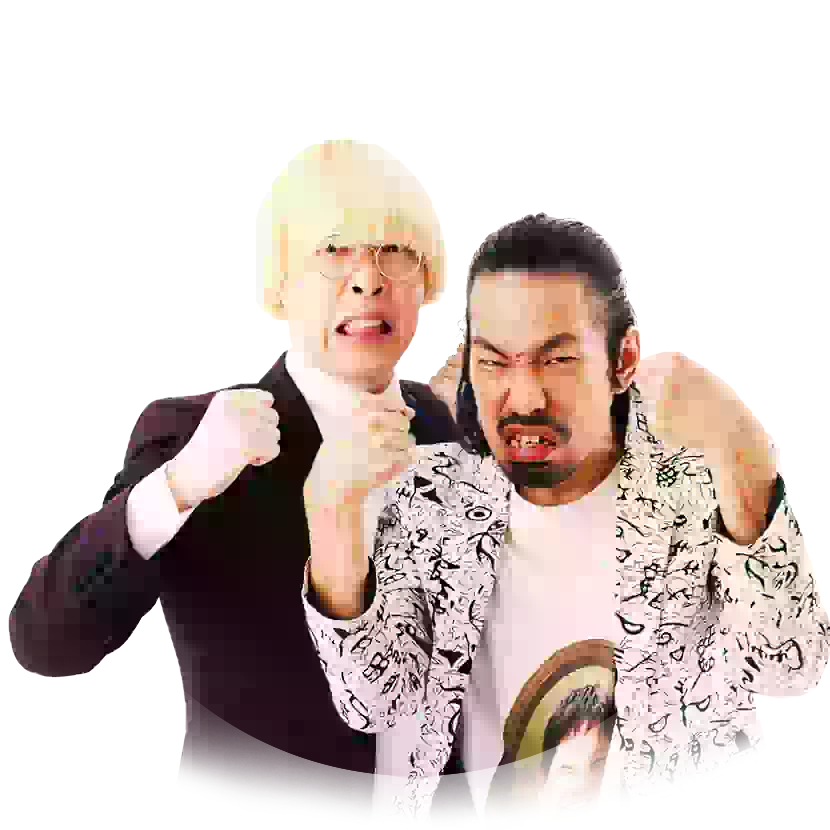
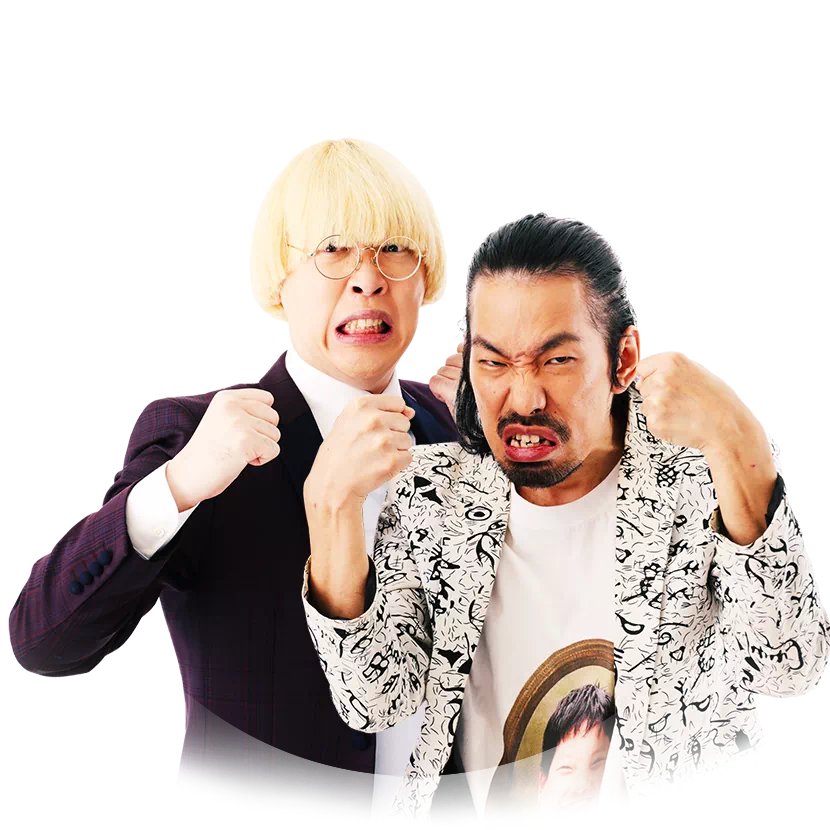
Improve M-1 section with HQ image and complete champion list
- Replace low-quality image with high-resolution version (108KB)
- Add complete champion history from 2001-2024
- Include note about 2011-2014 hiatus

🤖 Generated with [Claude Code](https://claude.com/claude-code)

diff --git a/index.html b/index.html
@@ -1212,16 +1212,20 @@
                 <h4 style="color: var(--color-gold); margin: 25px 0 12px; font-size: 1rem; border-bottom: 1px solid rgba(212,175,55,0.3); padding-bottom: 6px;">決勝審査員（9名）</h4>
                 <p style="font-size: 0.9em;">中川家・礼二、海原ともこ、フットボールアワー後藤<span style="background: rgba(212,175,55,0.3); padding: 1px 6px; border-radius: 8px; font-size: 0.8em; margin-left: 4px;">初</span>、ミルクボーイ駒場<span style="background: rgba(212,175,55,0.3); padding: 1px 6px; border-radius: 8px; font-size: 0.8em; margin-left: 4px;">初</span>、アンタッチャブル柴田、笑い飯・哲夫、博多大吉、ナイツ塙、かまいたち山内</p>
 
-                <h4 style="color: var(--color-gold); margin: 25px 0 12px; font-size: 1rem; border-bottom: 1px solid rgba(212,175,55,0.3); padding-bottom: 6px;">歴代チャンピオン</h4>
+                <h4 style="color: var(--color-gold); margin: 25px 0 12px; font-size: 1rem; border-bottom: 1px solid rgba(212,175,55,0.3); padding-bottom: 6px;">歴代チャンピオン（2001-2024）</h4>
                 <div style="font-size: 0.85em; display: grid; grid-template-columns: repeat(2, 1fr); gap: 4px 16px;">
-                    <span>2024 令和ロマン（2連覇）</span><span>2017 とろサーモン</span>
-                    <span>2023 令和ロマン</span><span>2016 銀シャリ</span>
-                    <span>2022 ウエストランド</span><span>2015 トレンディエンジェル</span>
-                    <span>2021 錦鯉</span><span>2010 笑い飯</span>
-                    <span>2020 マヂカルラブリー</span><span>2009 パンクブーブー</span>
-                    <span>2019 ミルクボーイ</span><span>2008 NON STYLE</span>
-                    <span>2018 霜降り明星</span><span>2007 サンドウィッチマン</span>
+                    <span>2024 令和ロマン（2連覇）</span><span>2010 笑い飯</span>
+                    <span>2023 令和ロマン</span><span>2009 パンクブーブー</span>
+                    <span>2022 ウエストランド</span><span>2008 NON STYLE</span>
+                    <span>2021 錦鯉</span><span>2007 サンドウィッチマン</span>
+                    <span>2020 マヂカルラブリー</span><span>2006 チュートリアル</span>
+                    <span>2019 ミルクボーイ</span><span>2005 ブラックマヨネーズ</span>
+                    <span>2018 霜降り明星</span><span>2004 アンタッチャブル</span>
+                    <span>2017 とろサーモン</span><span>2003 フットボールアワー</span>
+                    <span>2016 銀シャリ</span><span>2002 ますだおかだ</span>
+                    <span>2015 トレンディエンジェル</span><span>2001 中川家</span>
                 </div>
+                <p style="font-size: 0.75em; opacity: 0.6; margin-top: 8px; text-align: center;">※2011〜2014年は大会休止</p>
                 `,
                 broadcast: '決勝 18:30〜22:10 / 敗者復活 15:00〜18:30',
                 channel: 'ABCテレビ・テレビ朝日系 全国ネット生放送',
